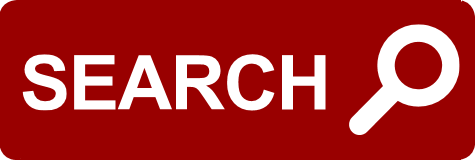
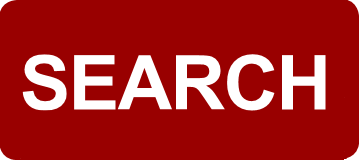
change the api button completely

diff --git a/app/assets/javascripts/api.js b/app/assets/javascripts/api.js
@@ -27,4 +27,4 @@
 		"uiOptions":{"resultsUrl":"","enableAutoComplete":true,"enableImageSearch":false,"imageSearchLayout":"popup","resultSetSize":"filtered_cse","enableOrderBy":true,"orderByOptions":[{"label":"Relevance","key":""},{"label":"Date","key":"date"}],"overlayResults":true,"enableMobileLayout":false,"numTopRefinements":-1,"isSitesearch":false,"enableSpeech":true},
 		"protocol":"https",
 		"uds":"www.google.com",
-		"rawCss":"\n.gsc-control-cse {\nfont-family: Arial, sans-serif;\nborder-color: #FFFFFF;\nbackground-color: #FFFFFF;\n}\n.gsc-control-cse .gsc-table-result {\nfont-family: Arial, sans-serif;\n}\ninput.gsc-input, .gsc-input-box, .gsc-input-box-hover, .gsc-input-box-focus {\nborder-color: #D9D9D9;\n}\ninput.gsc-search-button, input.gsc-search-button:hover, input.gsc-search-button:focus {\nborder-color: #666666;\nbackground-image: url('/../assets/background/search_button3.png');\nbackground-size: cover;\n min-height:25px;\n min-width:70px;\n}\n.gsc-tabHeader.gsc-tabhInactive {\nborder-color: #E9E9E9;\nbackground-color: #E9E9E9;\n}\n.gsc-tabHeader.gsc-tabhActive {\nborder-color: #FF9900;\nborder-bottom-color: #FFFFFF;\nbackground-color: #FFFFFF;\n}\n.gsc-tabsArea {\nborder-color: #FF9900;\n}\n.gsc-webResult.gsc-result,\n.gsc-results .gsc-imageResult {\nborder-color: #FFFFFF;\nbackground-color: #FFFFFF;\n}\n.gsc-webResult.gsc-result:hover,\n.gsc-imageResult:hover {\nborder-color: #FFFFFF;\nbackground-color: #FFFFFF;\n}\n.gs-webResult.gs-result a.gs-title:link,\n.gs-webResult.gs-result a.gs-title:link b,\n.gs-imageResult a.gs-title:link,\n.gs-imageResult a.gs-title:link b {\ncolor: #0000CC;\n}\n.gs-webResult.gs-result a.gs-title:visited,\n.gs-webResult.gs-result a.gs-title:visited b,\n.gs-imageResult a.gs-title:visited,\n.gs-imageResult a.gs-title:visited b {\ncolor: #0000CC;\n}\n.gs-webResult.gs-result a.gs-title:hover,\n.gs-webResult.gs-result a.gs-title:hover b,\n.gs-imageResult a.gs-title:hover,\n.gs-imageResult a.gs-title:hover b {\ncolor: #0000CC;\n}\n.gs-webResult.gs-result a.gs-title:active,\n.gs-webResult.gs-result a.gs-title:active b,\n.gs-imageResult a.gs-title:active,\n.gs-imageResult a.gs-title:active b {\ncolor: #0000CC;\n}\n.gsc-cursor-page {\ncolor: #0000CC;\n}\na.gsc-trailing-more-results:link {\ncolor: #0000CC;\n}\n.gs-webResult .gs-snippet,\n.gs-imageResult .gs-snippet,\n.gs-fileFormatType {\ncolor: #000000;\n}\n.gs-webResult div.gs-visibleUrl,\n.gs-imageResult div.gs-visibleUrl {\ncolor: #008000;\n}\n.gs-webResult div.gs-visibleUrl-short {\ncolor: #008000;\n}\n.gs-webResult div.gs-visibleUrl-short {\ndisplay: none;\n}\n.gs-webResult div.gs-visibleUrl-long {\ndisplay: block;\n}\n.gs-promotion div.gs-visibleUrl-short {\ndisplay: none;\n}\n.gs-promotion div.gs-visibleUrl-long {\ndisplay: block;\n}\n.gsc-cursor-box {\nborder-color: #FFFFFF;\n}\n.gsc-results .gsc-cursor-box .gsc-cursor-page {\nborder-color: #E9E9E9;\nbackground-color: #FFFFFF;\ncolor: #0000CC;\n}\n.gsc-results .gsc-cursor-box .gsc-cursor-current-page {\nborder-color: #FF9900;\nbackground-color: #FFFFFF;\ncolor: #0000CC;\n}\n.gsc-webResult.gsc-result.gsc-promotion {\nborder-color: #336699;\nbackground-color: #FFFFFF;\n}\n.gsc-completion-title {\ncolor: #0000CC;\n}\n.gsc-completion-snippet {\ncolor: #000000;\n}\n.gs-promotion a.gs-title:link,\n.gs-promotion a.gs-title:link *,\n.gs-promotion .gs-snippet a:link {\ncolor: #0000CC;\n}\n.gs-promotion a.gs-title:visited,\n.gs-promotion a.gs-title:visited *,\n.gs-promotion .gs-snippet a:visited {\ncolor: #0000CC;\n}\n.gs-promotion a.gs-title:hover,\n.gs-promotion a.gs-title:hover *,\n.gs-promotion .gs-snippet a:hover {\ncolor: #0000CC;\n}\n.gs-promotion a.gs-title:active,\n.gs-promotion a.gs-title:active *,\n.gs-promotion .gs-snippet a:active {\ncolor: #0000CC;\n}\n.gs-promotion .gs-snippet,\n.gs-promotion .gs-title .gs-promotion-title-right,\n.gs-promotion .gs-title .gs-promotion-title-right * {\ncolor: #000000;\n}\n.gs-promotion .gs-visibleUrl,\n.gs-promotion .gs-visibleUrl-short {\ncolor: #008000;\n}","loaderPath":"jsapi","cse_token":"AHL74MzyJDLEraUlwMc5CBUhJXaD:1501099073807"});
+		"rawCss":"\n.gsc-control-cse {\nfont-family: Arial, sans-serif;\nborder-color: #FFFFFF;\nbackground-color: #FFFFFF;\n}\n.gsc-control-cse .gsc-table-result {\nfont-family: Arial, sans-serif;\n}\ninput.gsc-input, .gsc-input-box, .gsc-input-box-hover, .gsc-input-box-focus {\nborder-color: #D9D9D9;\n}\ninput.gsc-search-button, input.gsc-search-button:hover, input.gsc-search-button:focus {\nborder-color: #666666;\nbackground-image: url('/../assets/background/search_button3.png');\nbackground-size: cover;\n min-height:25px;\n min-width:25px;\n max-width:25px;\n}\n.gsc-tabHeader.gsc-tabhInactive {\nborder-color: #E9E9E9;\nbackground-color: #E9E9E9;\n}\n.gsc-tabHeader.gsc-tabhActive {\nborder-color: #FF9900;\nborder-bottom-color: #FFFFFF;\nbackground-color: #FFFFFF;\n}\n.gsc-tabsArea {\nborder-color: #FF9900;\n}\n.gsc-webResult.gsc-result,\n.gsc-results .gsc-imageResult {\nborder-color: #FFFFFF;\nbackground-color: #FFFFFF;\n}\n.gsc-webResult.gsc-result:hover,\n.gsc-imageResult:hover {\nborder-color: #FFFFFF;\nbackground-color: #FFFFFF;\n}\n.gs-webResult.gs-result a.gs-title:link,\n.gs-webResult.gs-result a.gs-title:link b,\n.gs-imageResult a.gs-title:link,\n.gs-imageResult a.gs-title:link b {\ncolor: #0000CC;\n}\n.gs-webResult.gs-result a.gs-title:visited,\n.gs-webResult.gs-result a.gs-title:visited b,\n.gs-imageResult a.gs-title:visited,\n.gs-imageResult a.gs-title:visited b {\ncolor: #0000CC;\n}\n.gs-webResult.gs-result a.gs-title:hover,\n.gs-webResult.gs-result a.gs-title:hover b,\n.gs-imageResult a.gs-title:hover,\n.gs-imageResult a.gs-title:hover b {\ncolor: #0000CC;\n}\n.gs-webResult.gs-result a.gs-title:active,\n.gs-webResult.gs-result a.gs-title:active b,\n.gs-imageResult a.gs-title:active,\n.gs-imageResult a.gs-title:active b {\ncolor: #0000CC;\n}\n.gsc-cursor-page {\ncolor: #0000CC;\n}\na.gsc-trailing-more-results:link {\ncolor: #0000CC;\n}\n.gs-webResult .gs-snippet,\n.gs-imageResult .gs-snippet,\n.gs-fileFormatType {\ncolor: #000000;\n}\n.gs-webResult div.gs-visibleUrl,\n.gs-imageResult div.gs-visibleUrl {\ncolor: #008000;\n}\n.gs-webResult div.gs-visibleUrl-short {\ncolor: #008000;\n}\n.gs-webResult div.gs-visibleUrl-short {\ndisplay: none;\n}\n.gs-webResult div.gs-visibleUrl-long {\ndisplay: block;\n}\n.gs-promotion div.gs-visibleUrl-short {\ndisplay: none;\n}\n.gs-promotion div.gs-visibleUrl-long {\ndisplay: block;\n}\n.gsc-cursor-box {\nborder-color: #FFFFFF;\n}\n.gsc-results .gsc-cursor-box .gsc-cursor-page {\nborder-color: #E9E9E9;\nbackground-color: #FFFFFF;\ncolor: #0000CC;\n}\n.gsc-results .gsc-cursor-box .gsc-cursor-current-page {\nborder-color: #FF9900;\nbackground-color: #FFFFFF;\ncolor: #0000CC;\n}\n.gsc-webResult.gsc-result.gsc-promotion {\nborder-color: #336699;\nbackground-color: #FFFFFF;\n}\n.gsc-completion-title {\ncolor: #0000CC;\n}\n.gsc-completion-snippet {\ncolor: #000000;\n}\n.gs-promotion a.gs-title:link,\n.gs-promotion a.gs-title:link *,\n.gs-promotion .gs-snippet a:link {\ncolor: #0000CC;\n}\n.gs-promotion a.gs-title:visited,\n.gs-promotion a.gs-title:visited *,\n.gs-promotion .gs-snippet a:visited {\ncolor: #0000CC;\n}\n.gs-promotion a.gs-title:hover,\n.gs-promotion a.gs-title:hover *,\n.gs-promotion .gs-snippet a:hover {\ncolor: #0000CC;\n}\n.gs-promotion a.gs-title:active,\n.gs-promotion a.gs-title:active *,\n.gs-promotion .gs-snippet a:active {\ncolor: #0000CC;\n}\n.gs-promotion .gs-snippet,\n.gs-promotion .gs-title .gs-promotion-title-right,\n.gs-promotion .gs-title .gs-promotion-title-right * {\ncolor: #000000;\n}\n.gs-promotion .gs-visibleUrl,\n.gs-promotion .gs-visibleUrl-short {\ncolor: #008000;\n}","loaderPath":"jsapi","cse_token":"AHL74MzyJDLEraUlwMc5CBUhJXaD:1501099073807"});
